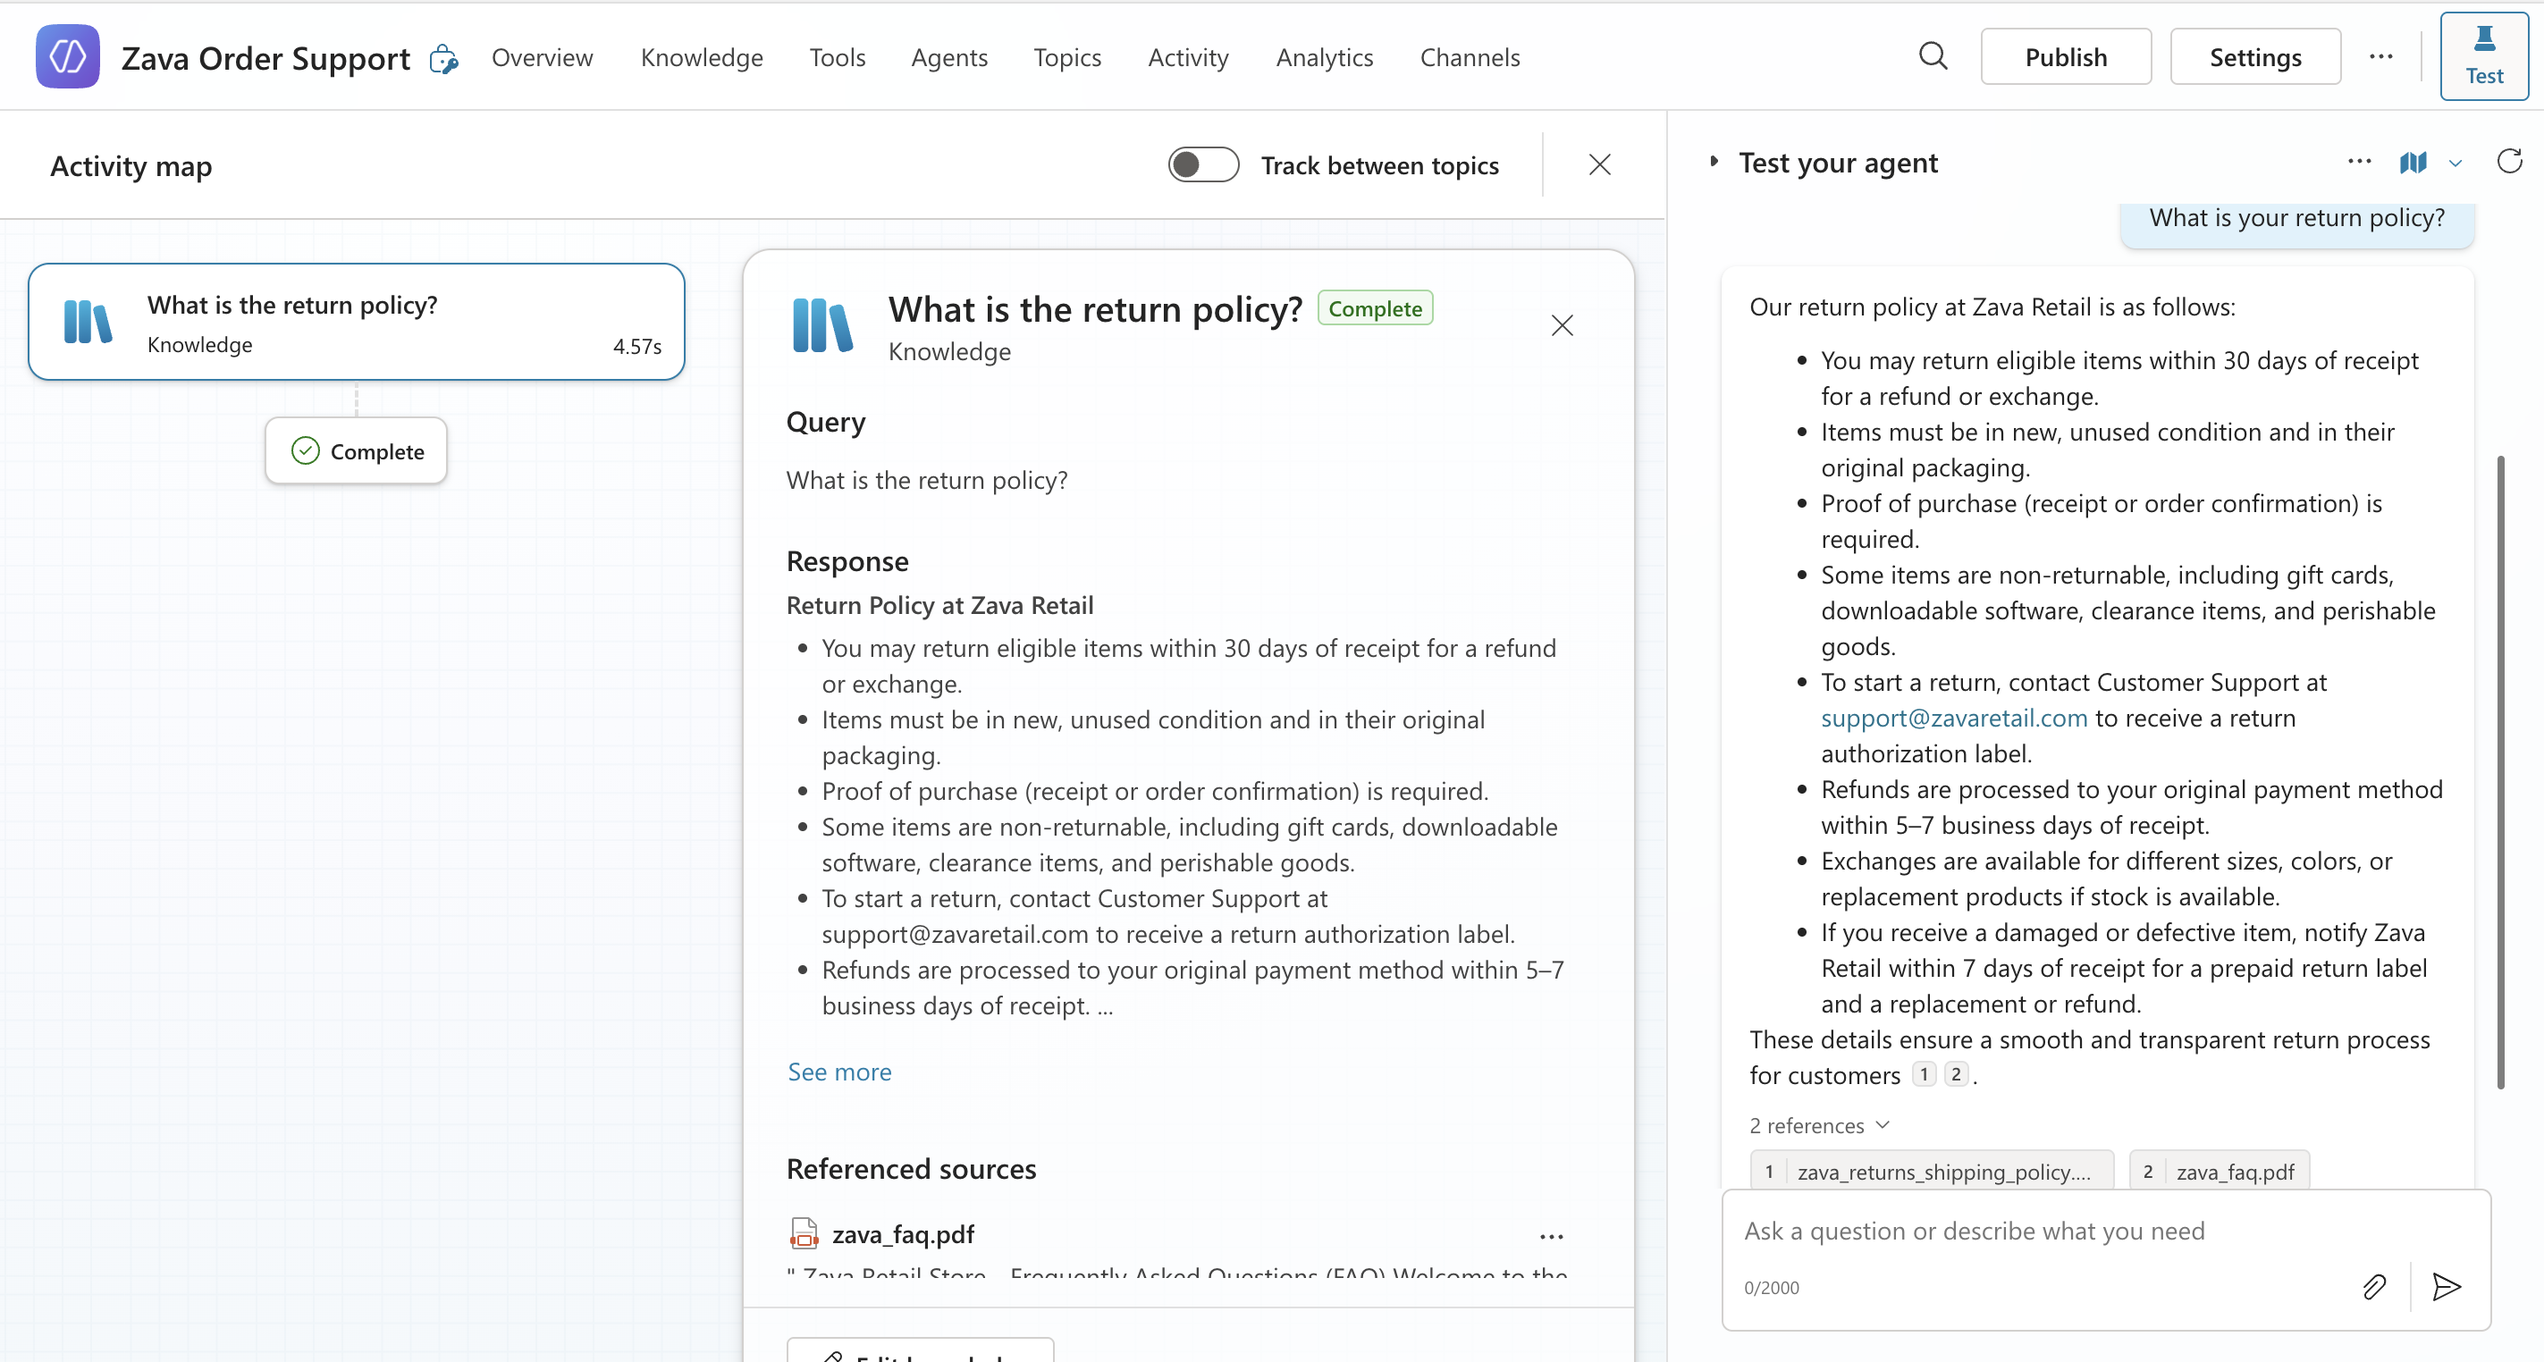
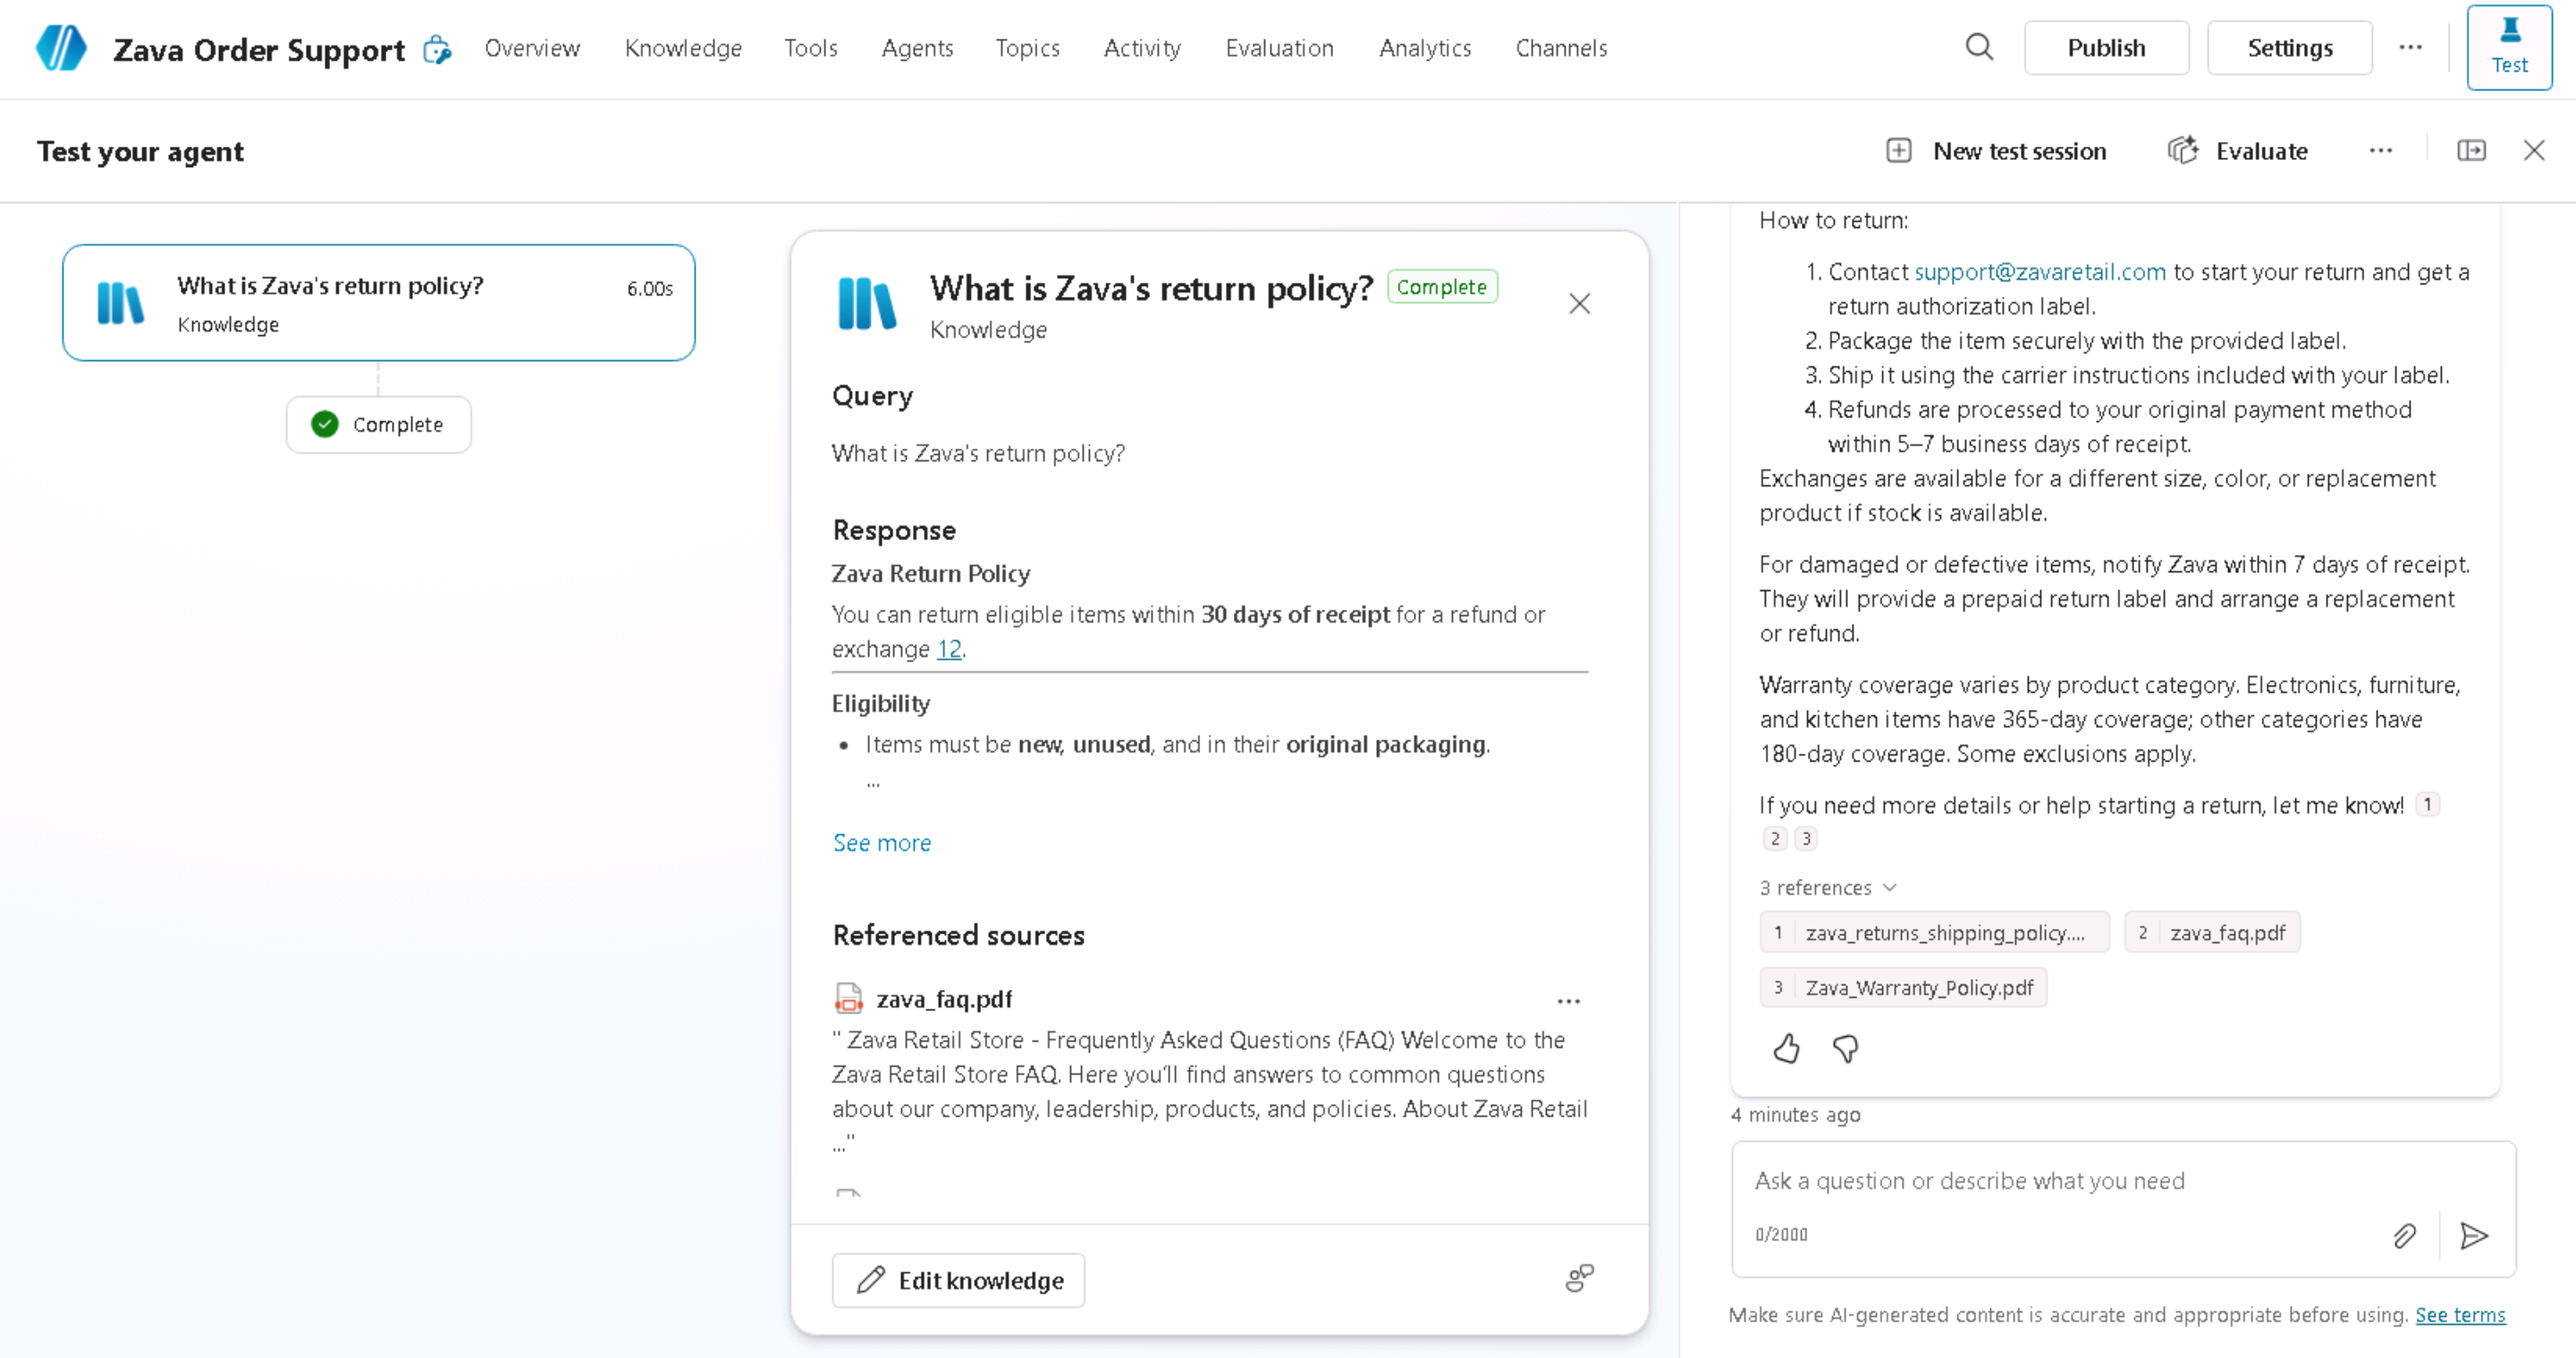
Removed references to activity map in lab 01

diff --git a/lab/instructions/01-Build-Your-Agent.md b/lab/instructions/01-Build-Your-Agent.md
@@ -124,11 +124,11 @@ To start, you're going to setup the foundation for your agent in Copilot Studio.
     > [!NOTE]
     > Don't forget to check that your files have finished uploading and show Ready status before testing.
 
-1. Review the output and notice the Activity Pane that displays on the left hand side showing where it pulled the answer from.
+1. Review the output and notice the Test Pane that displays on the left hand side showing where it pulled the answer from.
 
     ![TestAfter.png](./assets/TestAfter.png)
 
     > [!TIP]
-    > Given the nature of generative AI, your answer might differ from the answer shown in the screenshot above. That's ok and expected. The important thing here is to observe the Activity Map and how you can tell the agent is pulling from your knowledge.
+    > Given the nature of generative AI, your answer might differ from the answer shown in the screenshot above. That's ok and expected. The important thing here is to observe the Test Pane and how you can tell the agent is pulling from your knowledge.
 
 Congratulations! You have setup an agent that can answer questions about static data from files! Next ,we'll integrate it with an MCP server.
